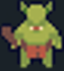
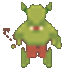
corrected some bugs

diff --git a/client/src/entity/entity.py b/client/src/entity/entity.py
@@ -69,7 +69,15 @@ def play(screen, tmx_data):
     for _ in range(10): # Spawn 10 monsters
         x = random.randint(0, tmx_data.width * tmx_data.tilewidth)
         y = random.randint(0, tmx_data.height * tmx_data.tileheight)
-        monster = Monster('monstre1.png', x, y)
+        i=random.randint(1,5)
+        if i==1:
+              monster = Monster('monstre1.png', x, y)
+        if i==2:
+            monster = Monster('monstre2.png', x, y)
+        if i==3:
+            monster = Monster('monstre3.png', x, y)
+        if i==4:
+            monster = Monster('monstre4.png', x, y)
         monsters.add(monster)
 
     # Create a group for players
